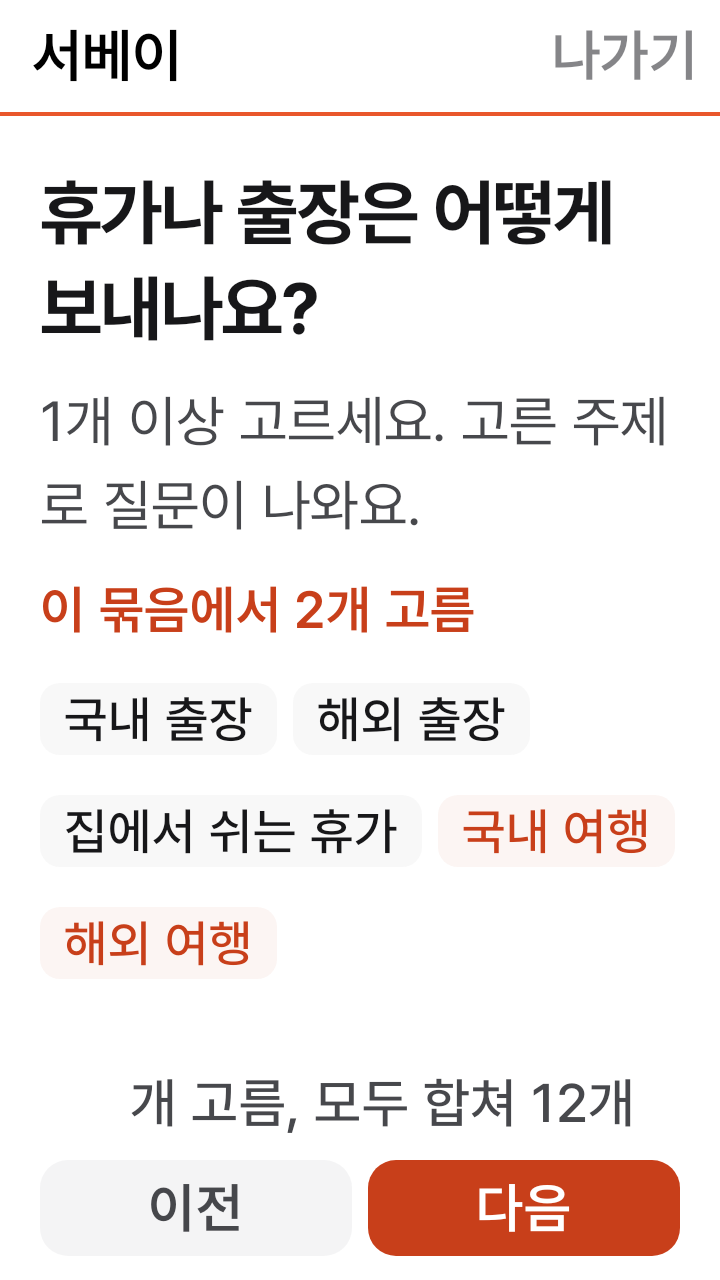
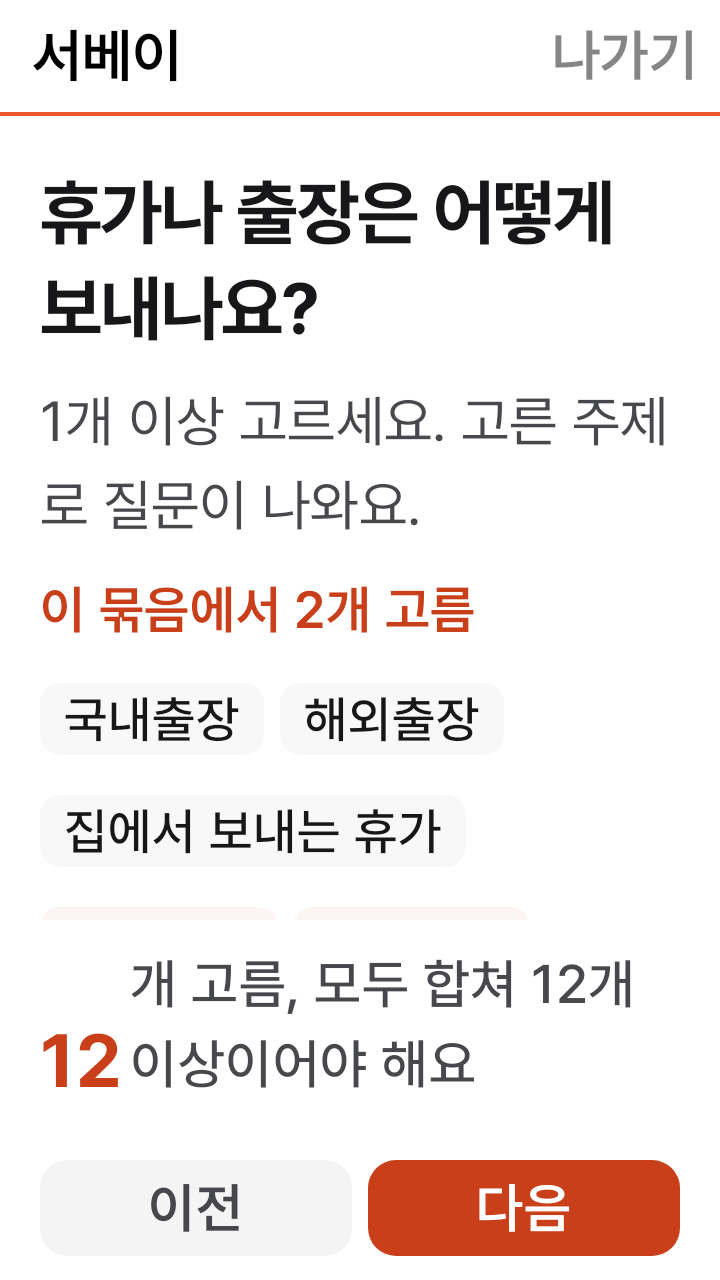
[survey-list] 서베이 Part 4 선택지를 실제 시험 튜토리얼 목록으로 맞추고 전체 선택 수를 스크롤 밖에 둔다 (#182)

diff --git a/packs/opic-en/src/commonMain/kotlin/io/github/nosorae/aiopic/packs/opicen/OpicEn.kt b/packs/opic-en/src/commonMain/kotlin/io/github/nosorae/aiopic/packs/opicen/OpicEn.kt
@@ -67,8 +67,9 @@ object OpicEn {
 
     /**
      * 서베이(F2.2). 구성(Part 1~2 하위 질문 갈래, Part 3 거주, Part 4 네 묶음과 묶음별 최소, 합쳐서 12개 이상)은 실제 시험 구성을 따르고
-     * 질문 문장은 이 앱의 말로 다시 썼다. 주제 id 는 내장 문항 풀의 주제 id 와 같아야 그 주제 문항이 나온다(F6.2).
-     * 풀의 home 은 사는 집 이야기라 서베이 밖 돌발 주제로 두고, 집에서 쉬는 휴가는 따로 home-vacation 으로 둔다.
+     * 질문 문장은 이 앱의 말로 다시 썼다. Part 4 선택지는 짧은 활동 이름이라 실제 시험 튜토리얼 목록의 이름을 그대로 쓴다.
+     * 주제 id 는 내장 문항 풀의 주제 id 와 같아야 그 주제 문항이 나온다(F6.2). 풀에 문항이 없는 주제는 같은 묶음 주제의 문항으로 대신한다.
+     * 풀의 home, cafes, shopping, tv 는 서베이 밖 돌발 주제로 두고, 집에서 보내는 휴가는 따로 home-vacation 으로 둔다.
      */
     val survey = Survey(
         questions = listOf(
@@ -99,28 +100,28 @@ object OpicEn {
         groups = listOf(
             group(
                 "leisure", "쉬는 날에는 주로 무엇을 하나요?", 2,
-                "movies" to "영화 보기", "performances" to "공연 보기", "concerts" to "콘서트 가기", "museums" to "박물관 가기", "parks" to "공원 가기",
-                "camping" to "캠핑", "beach" to "해변 가기", "cafes" to "카페 가기", "shopping" to "쇼핑", "tv" to "TV 보기",
+                "movies" to "영화보기", "clubs" to "클럽/나이트클럽 가기", "performances" to "공연보기", "concerts" to "콘서트보기", "museums" to "박물관가기",
+                "parks" to "공원가기", "camping" to "캠핑하기", "beach" to "해변가기", "watching-sports" to "스포츠 관람", "home-improvement" to "주거 개선",
             ),
             group(
                 "hobbies", "즐겨 하는 취미가 있나요?", 1,
-                "music" to "음악 듣기", "instrument" to "악기 연주", "singing" to "노래 부르기", "dancing" to "춤추기", "writing" to "글쓰기",
-                "drawing" to "그림 그리기", "cooking" to "요리", "pets" to "반려동물 키우기", "reading" to "책 읽기",
+                "reading-to-children" to "아이에게 책 읽어주기", "music" to "음악 감상하기", "instrument" to "악기 연주하기", "singing" to "혼자 노래부르거나 합창하기",
+                "dancing" to "춤추기", "writing" to "글쓰기(편지, 단문, 시 등)", "drawing" to "그림 그리기", "cooking" to "요리하기", "pets" to "애완동물 기르기",
             ),
             group(
                 "sports", "어떤 운동을 하나요?", 1,
-                "basketball" to "농구", "baseball" to "야구, 소프트볼", "soccer" to "축구", "american-football" to "미식축구", "hockey" to "하키",
+                "basketball" to "농구", "baseball" to "야구/소프트볼", "soccer" to "축구", "american-football" to "미식축구", "hockey" to "하키",
                 "cricket" to "크리켓", "golf" to "골프", "volleyball" to "배구", "tennis" to "테니스", "badminton" to "배드민턴", "table-tennis" to "탁구",
-                "swimming" to "수영", "cycling" to "자전거", "skiing" to "스키, 스노보드", "ice-skating" to "스케이트", "jogging" to "조깅", "walking" to "걷기",
-                "yoga" to "요가", "hiking" to "등산, 트레킹", "fishing" to "낚시", "gym" to "헬스", "no-exercise" to "운동 안 해요",
+                "swimming" to "수영", "cycling" to "자전거", "skiing" to "스키/스노우보드", "ice-skating" to "아이스 스케이트", "jogging" to "조깅", "walking" to "걷기",
+                "yoga" to "요가", "hiking" to "하이킹/트레킹", "fishing" to "낚시", "gym" to "헬스", "no-exercise" to "운동을 전혀 하지 않음",
             ),
             group(
                 "trips",
                 "휴가나 출장은 어떻게 보내나요?",
                 1,
-                "business-trip" to "국내 출장",
-                "overseas-business-trip" to "해외 출장",
-                "home-vacation" to "집에서 쉬는 휴가",
+                "business-trip" to "국내출장",
+                "overseas-business-trip" to "해외출장",
+                "home-vacation" to "집에서 보내는 휴가",
                 "domestic-travel" to "국내 여행",
                 "overseas-travel" to "해외 여행",
             ),

diff --git a/packs/opic-en/src/iosTest/kotlin/io/github/nosorae/aiopic/packs/opicen/QuestionPoolFileTest.kt b/packs/opic-en/src/iosTest/kotlin/io/github/nosorae/aiopic/packs/opicen/QuestionPoolFileTest.kt
@@ -8,6 +8,7 @@ import kotlin.random.Random
 import kotlin.test.Test
 import kotlin.test.assertEquals
 import kotlin.test.assertNotNull
+import kotlin.test.assertTrue
 
 /** 내장 문항 풀(F6.2)을 Res 로 읽어 본다. Compose 리소스를 읽어야 해서 [OpicPromptFileTest] 처럼 iOS 시뮬레이터에서만 돈다. */
 class QuestionPoolFileTest {
@@ -36,9 +37,9 @@ class QuestionPoolFileTest {
     }
 
     @Test
-    fun `F6_2 내장 풀의 주제는 자기소개와 서베이 밖 돌발 주제인 동네와 사는 집을 빼면 모두 서베이에서 고를 수 있다`() = runTest {
+    fun `F6_2 내장 풀의 주제는 자기소개와 서베이 밖 돌발 주제를 빼면 모두 서베이에서 고를 수 있다`() = runTest {
         val surveyTopics = OpicEn.survey.groups.flatMap { group -> group.topics.map { it.id } }.toSet()
-        assertEquals(setOf("self", "neighborhood", "home"), pool().map { it.topic }.toSet() - surveyTopics)
+        assertEquals(setOf("self", "neighborhood", "home", "cafes", "shopping", "tv"), pool().map { it.topic }.toSet() - surveyTopics)
         assertEquals(OpicEn.questionPool(), pool())
     }
 
@@ -48,5 +49,20 @@ class QuestionPoolFileTest {
         val missing = pool().filter { OpicEn.questionVoice(it.id)?.isNotEmpty() != true }.map { it.id }
         assertEquals(emptyList(), missing)
         assertEquals(null, OpicEn.questionVoice("no-such-question"))
+    }
+
+    @Test
+    fun `F6_2 내장 문항이 없는 서베이 주제만 골라도 묘사 문항은 같은 묶음 주제로 나온다`() = runTest {
+        val pool = pool()
+        val pooled = pool.map { it.topic }.toSet()
+        val description = OpicQuestionType.Description.type
+        OpicEn.survey.groups.forEach { group ->
+            group.topics.map { it.id }.filterNot { it in pooled }.forEach { topic ->
+                repeat(5) { seed ->
+                    val picked = assertNotNull(pickFromPool(pool, listOf(description), listOf(topic), Random(seed), OpicEn.survey.nearTopics(listOf(topic))))
+                    assertTrue(picked.single().topic in group.topics.map { it.id }, "$topic 대신 ${picked.single().topic}")
+                }
+            }
+        }
     }
 }

diff --git a/ui/feature-exam/src/commonMain/kotlin/io/github/nosorae/aiopic/ui/featureexam/ExamScreen.kt b/ui/feature-exam/src/commonMain/kotlin/io/github/nosorae/aiopic/ui/featureexam/ExamScreen.kt
@@ -385,15 +385,15 @@ internal object ExamSamples {
             ),
         ),
         groups = listOf(
-            TopicGroup("leisure", "쉬는 날에는 주로 무엇을 하나요?", 2, listOf("영화 보기", "공연 보기", "콘서트 가기", "박물관 가기", "공원 가기", "캠핑", "해변 가기", "카페 가기", "쇼핑", "TV 보기").map { Topic(it, it) }),
-            TopicGroup("trips", "휴가나 출장은 어떻게 보내나요?", 1, listOf("국내 출장", "해외 출장", "집에서 쉬는 휴가", "국내 여행", "해외 여행").map { Topic(it, it) }),
+            TopicGroup("leisure", "쉬는 날에는 주로 무엇을 하나요?", 2, listOf("영화보기", "클럽/나이트클럽 가기", "공연보기", "콘서트보기", "박물관가기", "공원가기", "캠핑하기", "해변가기", "스포츠 관람", "주거 개선").map { Topic(it, it) }),
+            TopicGroup("trips", "휴가나 출장은 어떻게 보내나요?", 1, listOf("국내출장", "해외출장", "집에서 보내는 휴가", "국내 여행", "해외 여행").map { Topic(it, it) }),
         ),
         minTopics = 12,
     )
 
     val survey = ExamUiState(step = ExamStep.Survey(minTopics = 12), survey = SurveyState(surveySample, choices = mapOf("work" to "company")))
-    val surveyGroup = survey.copy(survey = survey.survey!!.copy(screen = 1, topics = setOf("영화 보기", "카페 가기", "쇼핑")))
-    val surveyShort = survey.copy(survey = survey.survey!!.copy(screen = 2, topics = setOf("영화 보기", "카페 가기", "국내 여행")))
+    val surveyGroup = survey.copy(survey = survey.survey!!.copy(screen = 1, topics = setOf("영화보기", "공연보기", "스포츠 관람")))
+    val surveyShort = survey.copy(survey = survey.survey!!.copy(screen = 2, topics = setOf("영화보기", "공연보기", "국내 여행")))
     val surveyReady = survey.copy(survey = survey.survey!!.copy(screen = 2, topics = surveySample.groups[0].topics.map { it.id }.toSet() + "국내 여행" + "해외 여행"))
     val level = ExamUiState(step = ExamStep.LevelSelect, levelCount = 6, selectedLevel = 4)
     val check = ExamUiState(step = ExamStep.Check)

diff --git a/ui/feature-exam/src/commonMain/kotlin/io/github/nosorae/aiopic/ui/featureexam/SurveyFlow.kt b/ui/feature-exam/src/commonMain/kotlin/io/github/nosorae/aiopic/ui/featureexam/SurveyFlow.kt
@@ -38,6 +38,7 @@ import org.jetbrains.compose.resources.stringResource
 
 /**
  * 서베이 한 화면. 맨 위 진행 막대 아래에 질문 하나 또는 주제 묶음 하나를 그리고, 화면이 바뀌면 옆으로 밀려난다.
+ * 마지막 묶음 화면이면 모든 묶음에서 고른 수를 맨 아래에 고정해 보인다.
  * 앞으로 가면 새 화면이 오른쪽에서, 뒤로 가면 왼쪽에서 들어온다. 모의시험의 서베이 단계와 설정의 서베이가 같이 쓴다.
  */
 @Composable
@@ -59,6 +60,8 @@ fun SurveyFlow(state: SurveyState, onChoose: (String) -> Unit, onToggle: (String
             shown.question?.let { QuestionScreen(it, shown.choices[it.id], onChoose, scrolling) }
             shown.group?.let { GroupScreen(shown, it, onToggle, scrolling) }
         }
+        // 큰 글자에서 칩이 길어져도 스크롤 아래로 밀리지 않게 스크롤 밖, 버튼 바로 위에 둔다.
+        if (state.isLast) Total(state)
     }
 }
 
@@ -141,7 +144,6 @@ private fun GroupScreen(state: SurveyState, group: TopicGroup, onToggle: (String
                 )
             }
         }
-        if (state.isLast) Total(state)
     }
 }
 
@@ -150,7 +152,7 @@ private fun GroupScreen(state: SurveyState, group: TopicGroup, onToggle: (String
 private fun Total(state: SurveyState) {
     val enough = state.topics.size >= state.survey.minTopics
     val color = if (enough) MontageTheme.colors.foregroundBrandPrimary else MontageTheme.colors.foregroundNeutralPrimary
-    Column(Modifier.padding(top = MontageSpacing.spacing24), verticalArrangement = Arrangement.spacedBy(MontageSpacing.spacing8)) {
+    Column(Modifier.padding(vertical = MontageSpacing.spacing12), verticalArrangement = Arrangement.spacedBy(MontageSpacing.spacing8)) {
         Row(
             modifier = Modifier.padding(horizontal = Gutter),
             verticalAlignment = Alignment.Bottom,

diff --git a/packs/opic-en/src/commonTest/kotlin/io/github/nosorae/aiopic/packs/opicen/OpicEnTest.kt b/packs/opic-en/src/commonTest/kotlin/io/github/nosorae/aiopic/packs/opicen/OpicEnTest.kt
@@ -55,6 +55,23 @@ class OpicEnTest {
     }
 
     @Test
+    fun `F2_2 Part 4 선택지는 실제 시험 튜토리얼의 활동 이름 그대로다`() {
+        assertEquals(
+            listOf(
+                listOf("영화보기", "클럽/나이트클럽 가기", "공연보기", "콘서트보기", "박물관가기", "공원가기", "캠핑하기", "해변가기", "스포츠 관람", "주거 개선"),
+                listOf("아이에게 책 읽어주기", "음악 감상하기", "악기 연주하기", "혼자 노래부르거나 합창하기", "춤추기", "글쓰기(편지, 단문, 시 등)", "그림 그리기", "요리하기", "애완동물 기르기"),
+                listOf(
+                    "농구", "야구/소프트볼", "축구", "미식축구", "하키", "크리켓", "골프", "배구", "테니스", "배드민턴", "탁구", "수영", "자전거", "스키/스노우보드",
+                    "아이스 스케이트", "조깅", "걷기", "요가", "하이킹/트레킹", "낚시", "헬스", "운동을 전혀 하지 않음",
+                ),
+                listOf("국내출장", "해외출장", "집에서 보내는 휴가", "국내 여행", "해외 여행"),
+            ),
+            OpicEn.survey.groups.map { group -> group.topics.map { it.label } },
+        )
+        assertTrue(OpicEn.survey.groups.flatMap { it.topics }.all { it.id.matches(Regex("[a-z]+(-[a-z]+)*")) }, "주제 id 는 영어 낱말이다")
+    }
+
+    @Test
     fun `F2_2 합쳐서 12개 미만이거나 묶음 최소를 못 채우면 받지 않는다`() {
         val (leisure, hobbies, sports, trips) = OpicEn.survey.groups.map { group -> group.topics.map { it.id } }
         val enough = leisure.take(5) + hobbies.take(3) + sports.take(3) + trips.take(1)

diff --git a/ui/feature-exam/src/androidHostTest/kotlin/io/github/nosorae/aiopic/ui/featureexam/ExamScreenTest.kt b/ui/feature-exam/src/androidHostTest/kotlin/io/github/nosorae/aiopic/ui/featureexam/ExamScreenTest.kt
@@ -1,9 +1,14 @@
 package io.github.nosorae.aiopic.ui.featureexam
 
 import androidx.compose.runtime.CompositionLocalProvider
+import androidx.compose.ui.test.assertIsDisplayed
 import androidx.compose.ui.test.assertIsNotEnabled
+import androidx.compose.ui.test.hasAnyAncestor
+import androidx.compose.ui.test.hasScrollAction
+import androidx.compose.ui.test.hasTestTag
 import androidx.compose.ui.test.junit4.createComposeRule
 import androidx.compose.ui.test.onNodeWithContentDescription
+import androidx.compose.ui.test.onNodeWithTag
 import androidx.compose.ui.test.onNodeWithText
 import androidx.compose.ui.test.performClick
 import androidx.test.ext.junit.runners.AndroidJUnit4
@@ -77,10 +82,10 @@ class ExamScreenTest {
             }
         }
 
-        rule.onNodeWithText("캠핑").performClick()
+        rule.onNodeWithText("캠핑하기").performClick()
 
         assertEquals(listOf(HapticEffect.Selection), played)
-        assertEquals(listOf<ExamIntent>(ExamIntent.ToggleTopic("캠핑")), intents)
+        assertEquals(listOf<ExamIntent>(ExamIntent.ToggleTopic("캠핑하기")), intents)
     }
 
     @Test
@@ -91,6 +96,14 @@ class ExamScreenTest {
         rule.onNodeWithText("이전").performClick()
 
         assertEquals(listOf<ExamIntent>(ExamIntent.PreviousSurveyScreen), intents)
+    }
+
+    @Test
+    fun `F2_2 마지막 묶음의 전체 선택 수는 스크롤 밖에 있어 큰 글자에서도 아래로 밀리지 않는다`() {
+        show(ExamSamples.surveyReady)
+
+        rule.onNodeWithTag("survey-total").assertIsDisplayed()
+        rule.onNode(hasTestTag("survey-total") and hasAnyAncestor(hasScrollAction())).assertDoesNotExist()
     }
 
     @Test

diff --git a/apps/opic/shared/src/commonTest/kotlin/io/github/nosorae/aiopic/apps/opic/shared/SurveyPartsWiringTest.kt b/apps/opic/shared/src/commonTest/kotlin/io/github/nosorae/aiopic/apps/opic/shared/SurveyPartsWiringTest.kt
@@ -53,7 +53,7 @@ class SurveyPartsWiringTest {
         val survey = viewModel("survey") { graph.surveyViewModel }
         advanceUntilIdle()
         listOf("none", "no", "over-5-years", "family").forEach { survey.onIntent(SurveyIntent.ChooseOption(it)) }
-        val topics = listOf("movies", "parks", "cafes", "shopping", "tv", "music", "cooking", "reading", "jogging", "walking", "hiking", "domestic-travel")
+        val topics = listOf("movies", "parks", "clubs", "beach", "camping", "music", "cooking", "reading-to-children", "jogging", "walking", "hiking", "domestic-travel")
         topics.forEach { survey.onIntent(SurveyIntent.ToggleTopic(it)) }
         survey.onIntent(SurveyIntent.Submit)
         advanceUntilIdle()
